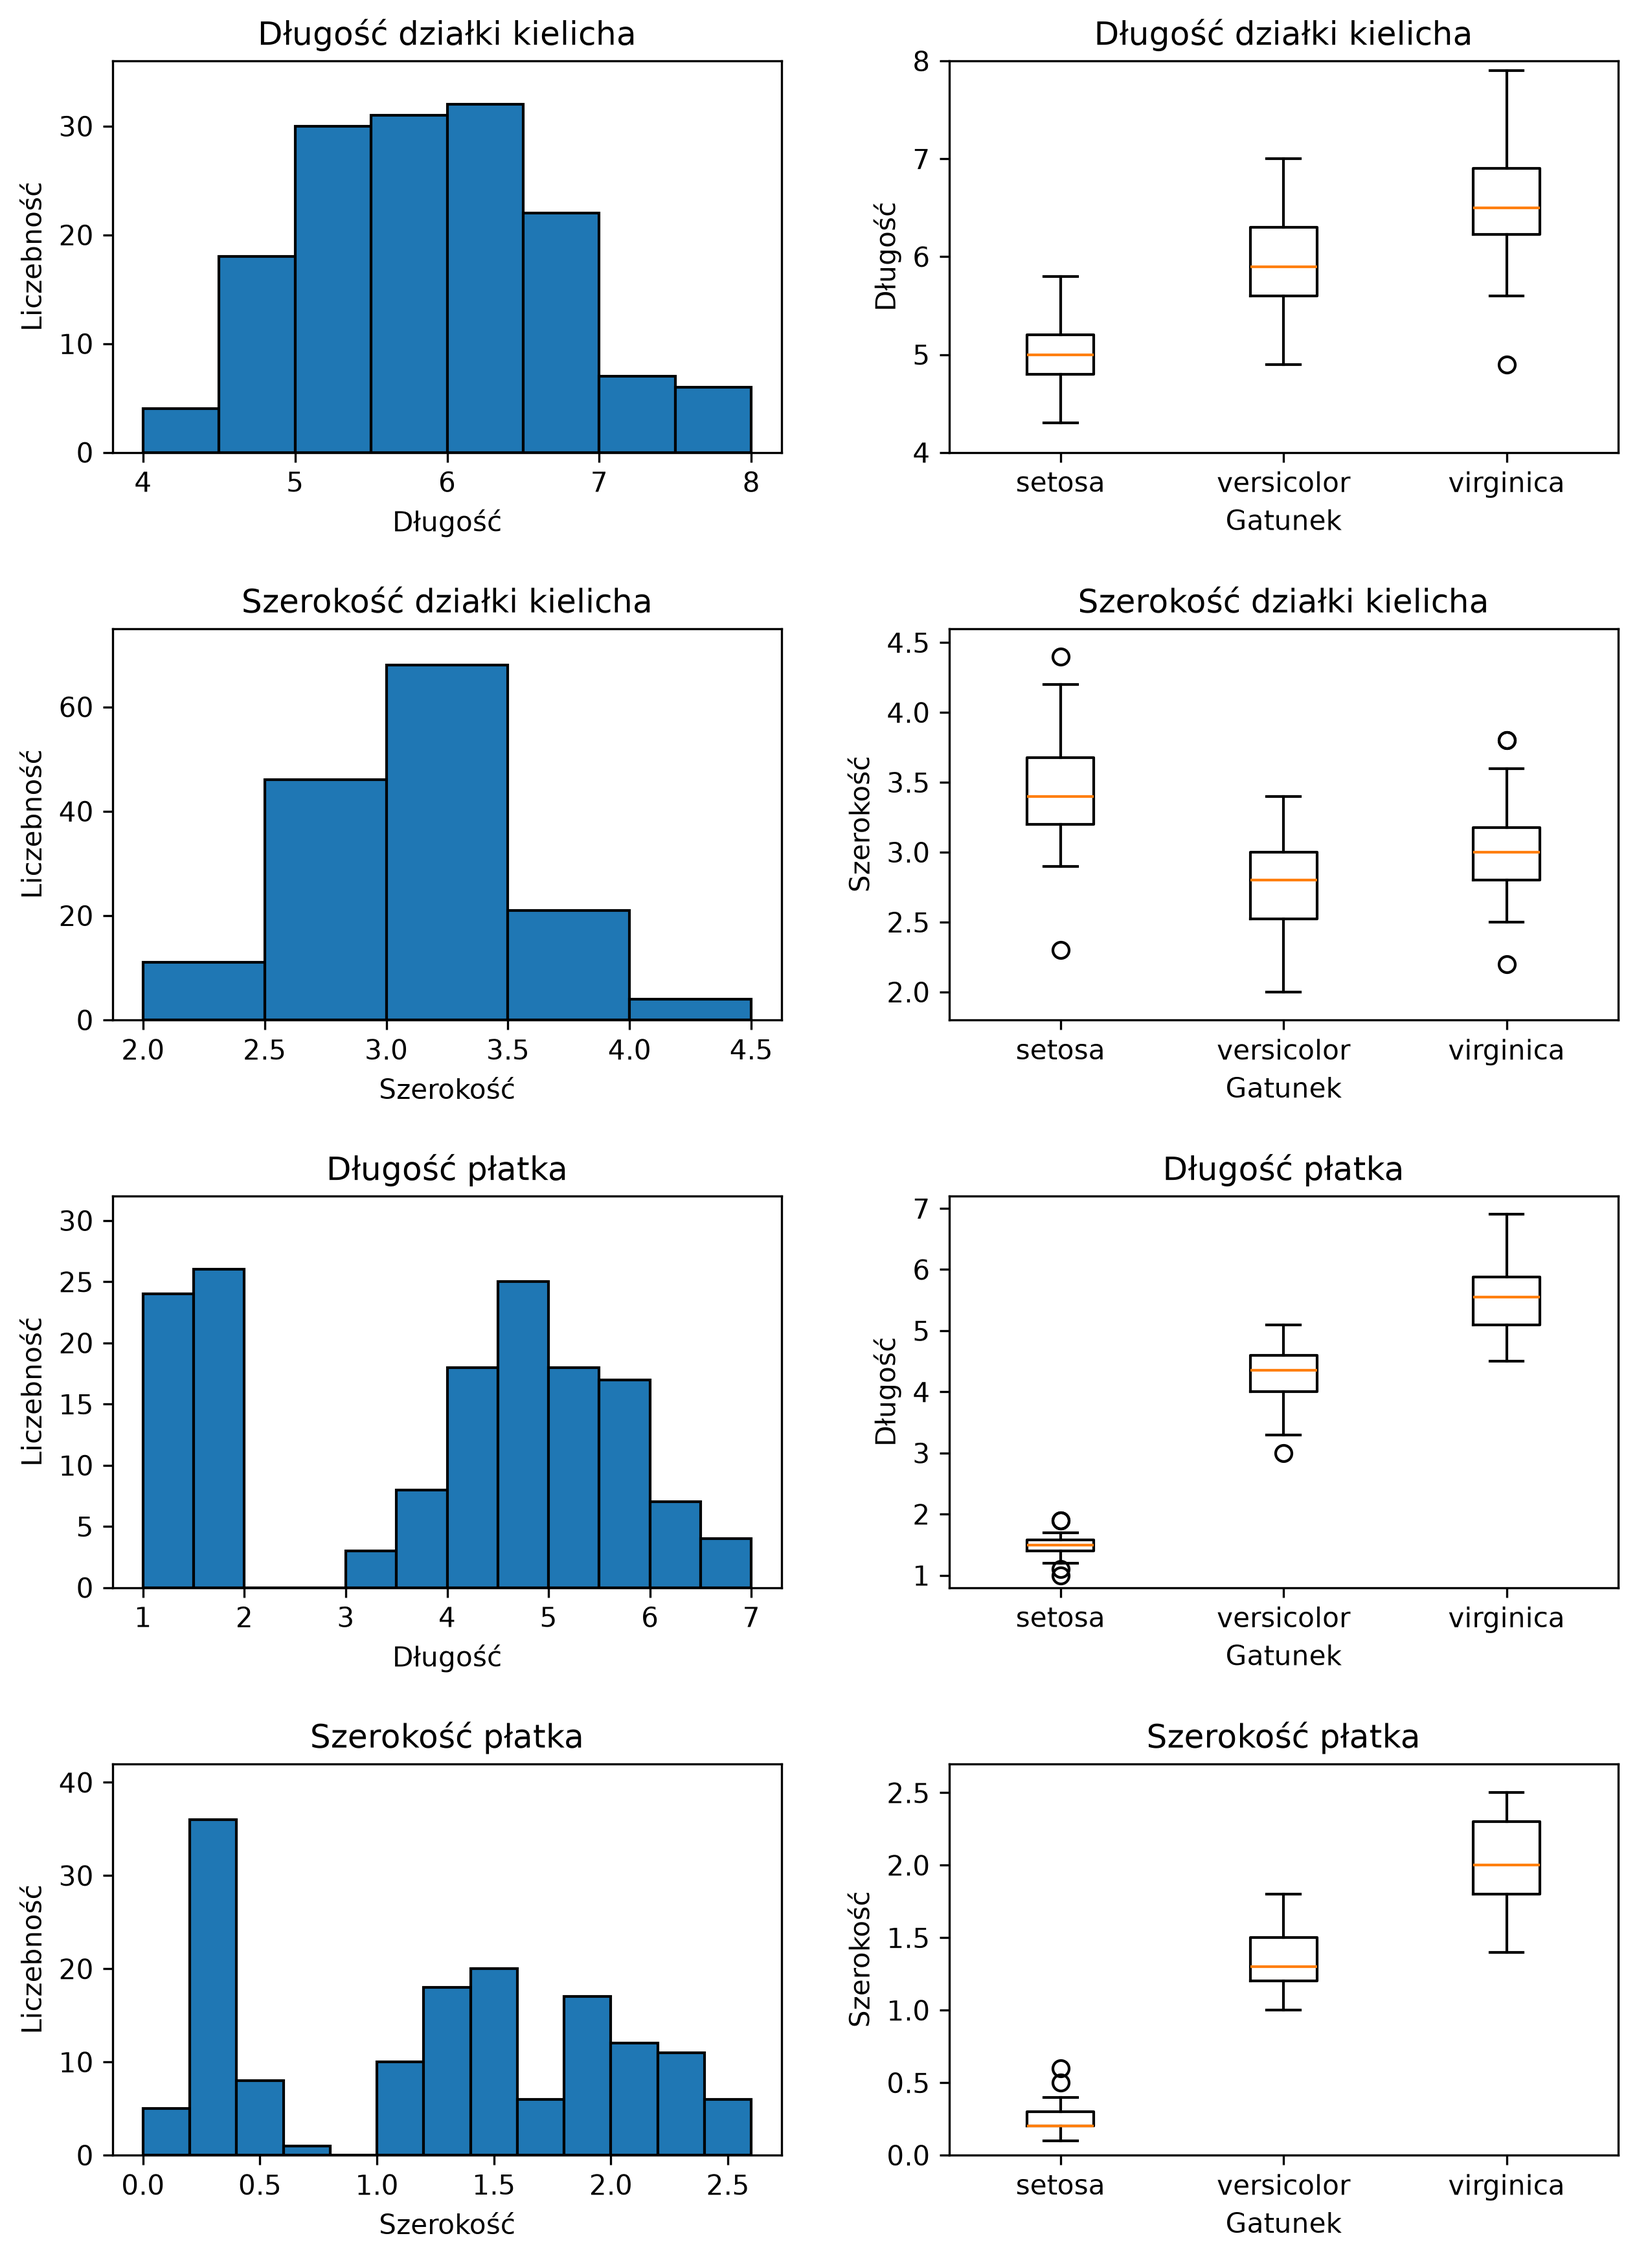
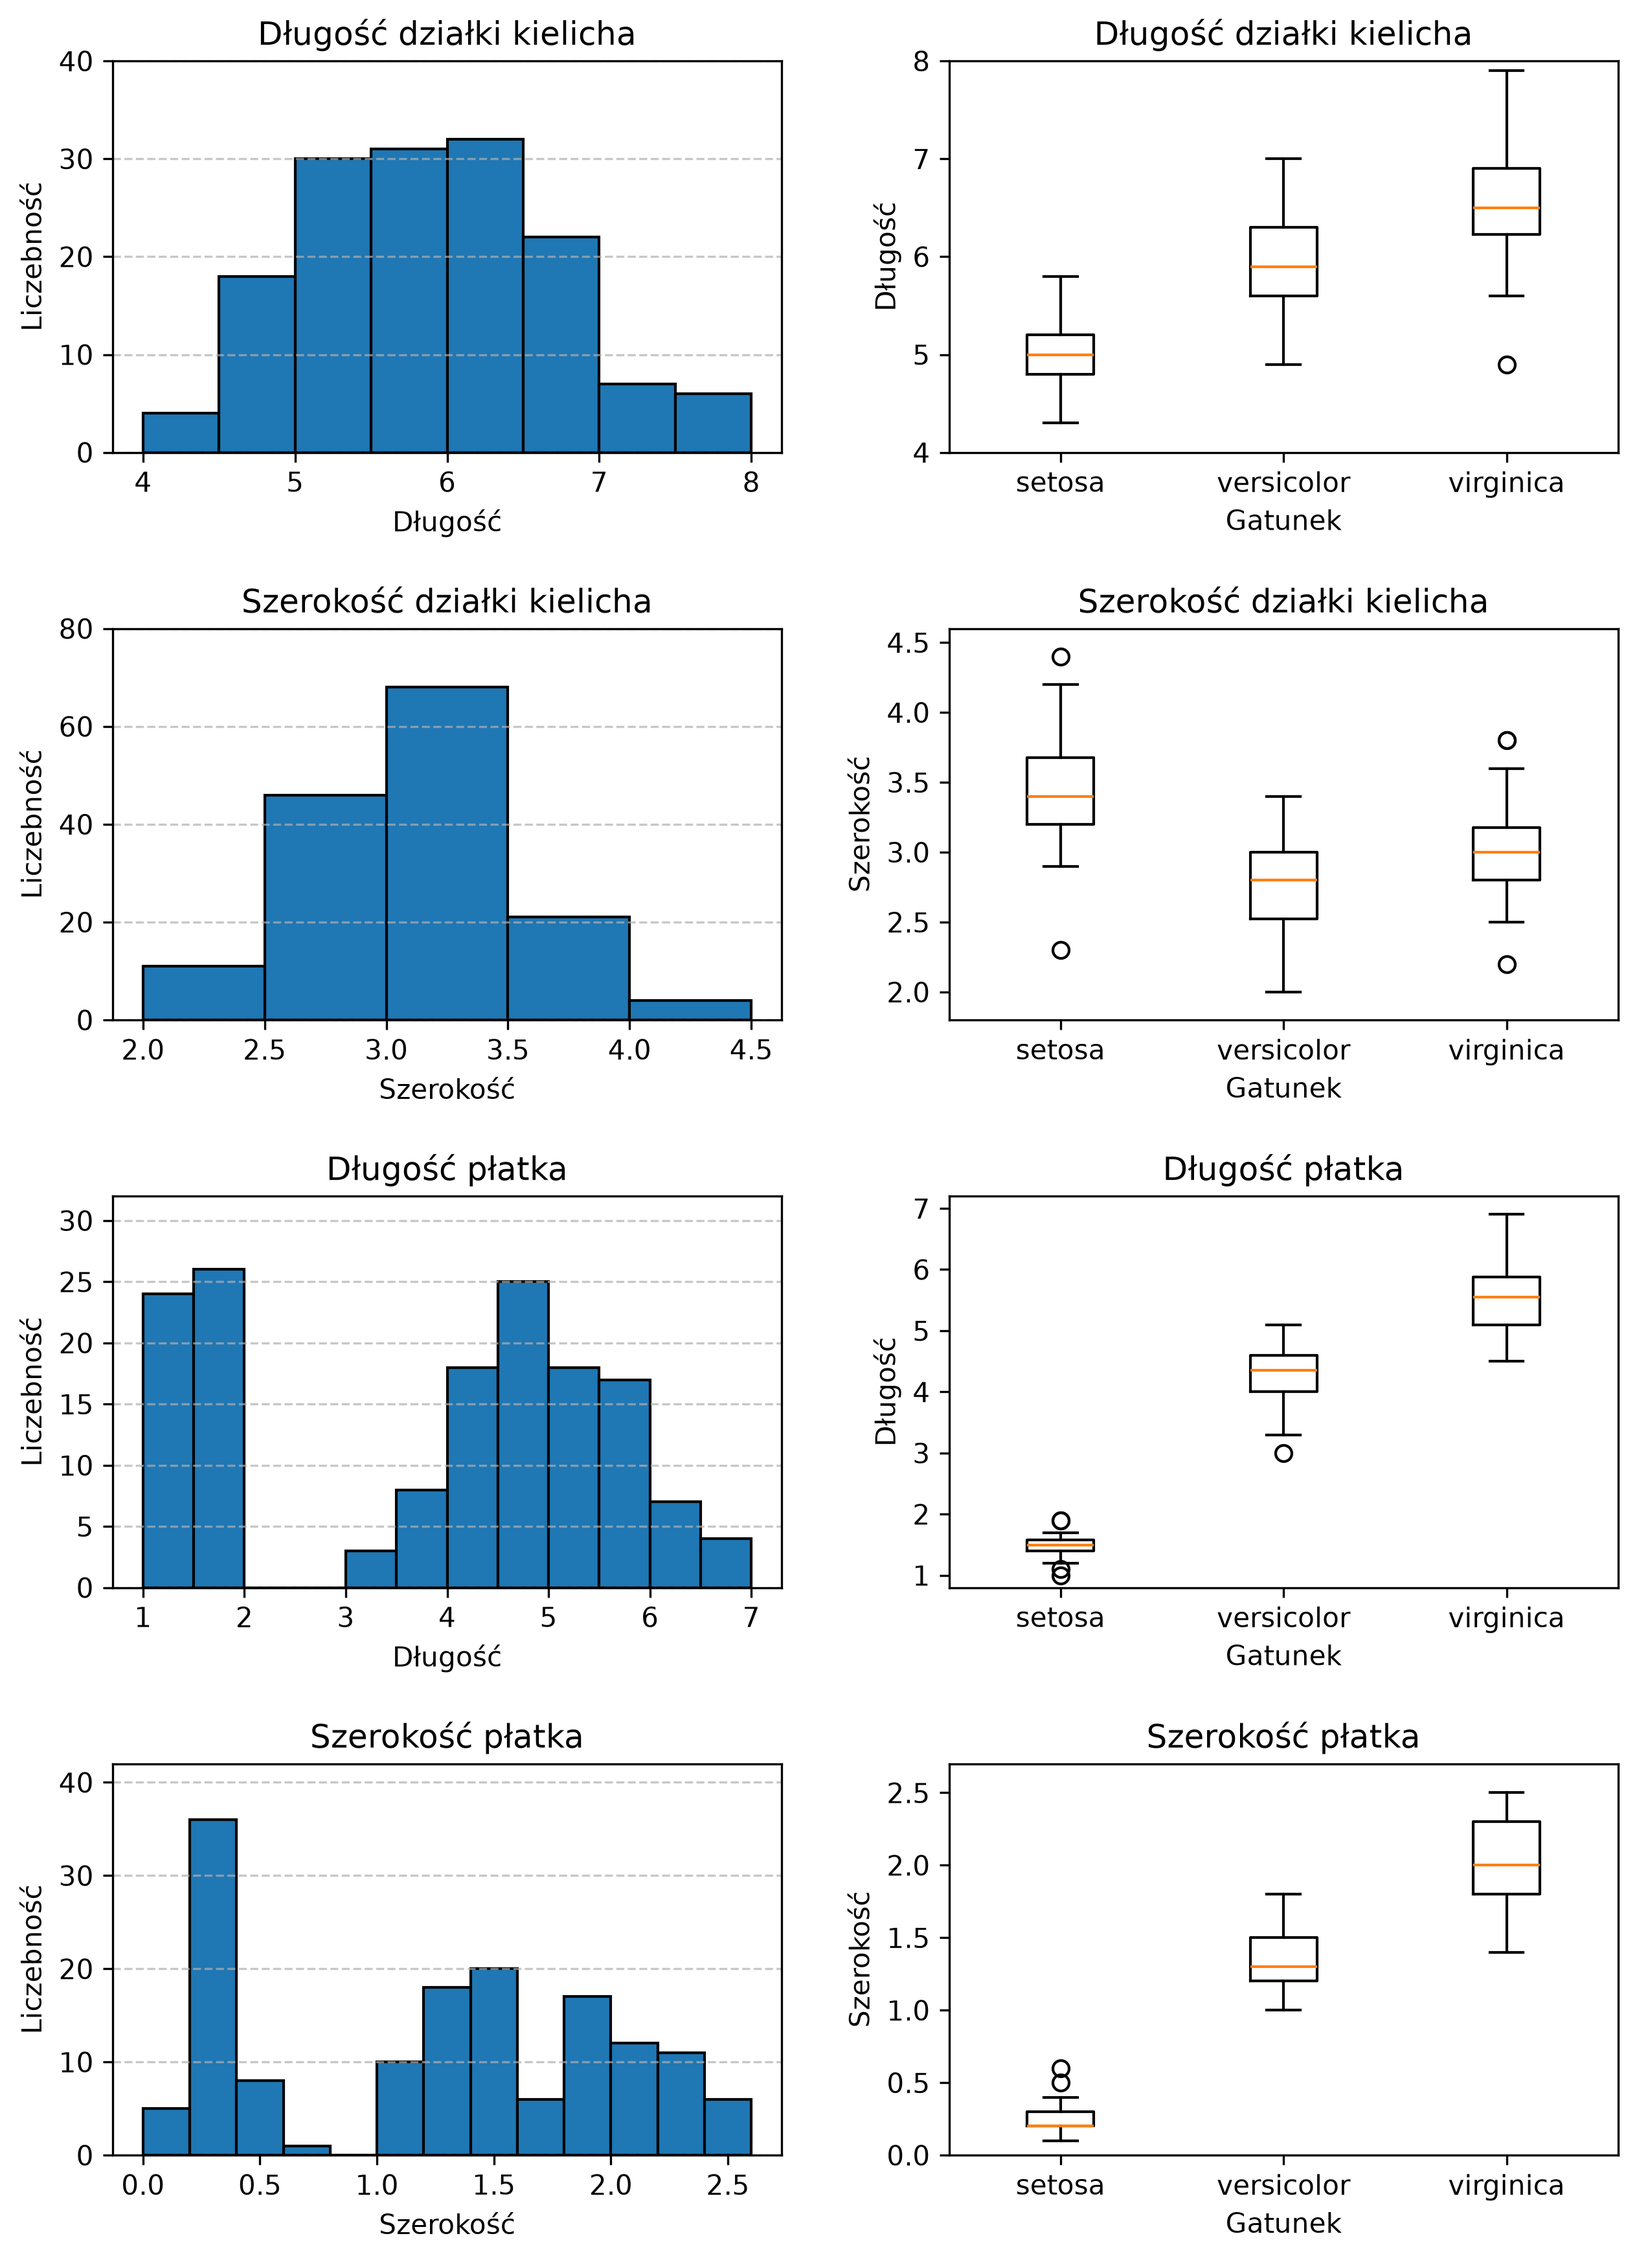
naprawianei wykresów

diff --git a/zad_1.py b/zad_1.py
@@ -202,7 +202,7 @@ konfiguracja_cech= [ #dane dla wykresów, tablica słowników
         "Klucz":"Długość działki kielicha",
         "Jednostka":"Długość",
         "podzialki":[4.0,4.5,5.0,5.5,6.0,6.5,7.0,7.5,8.0],
-        "hist":(0,36),
+        "hist":(0,40),
         "box":(4,8)
     },
     {
@@ -210,7 +210,7 @@ konfiguracja_cech= [ #dane dla wykresów, tablica słowników
         "Klucz":"Szerokość działki kielicha",
         "Jednostka":"Szerokość",
         "podzialki":[2.0,2.5,3.0,3.5,4.0,4.5],
-        "hist":(0,75),
+        "hist":(0,80),
         "box":(1.8,4.6)        
     },
     {
@@ -242,6 +242,7 @@ for i,cfg in enumerate(konfiguracja_cech):
 
     #tworzenie histogramu
     ax_hist.hist(allData[klucz], bins=cfg["podzialki"], edgecolor='black') #rysowanie histogramu dla danych z tablicy, bins to podziałki
+    ax_hist.grid(True, axis='y', linestyle='--', alpha=0.7)
     ax_hist.set_title(cfg["Klucz"]) #ustawienie tytułu
     ax_hist.set_xlabel(cfg["Jednostka"]) #label dla osi x
     ax_hist.set_ylabel("Liczebność")  #label dla osi y
